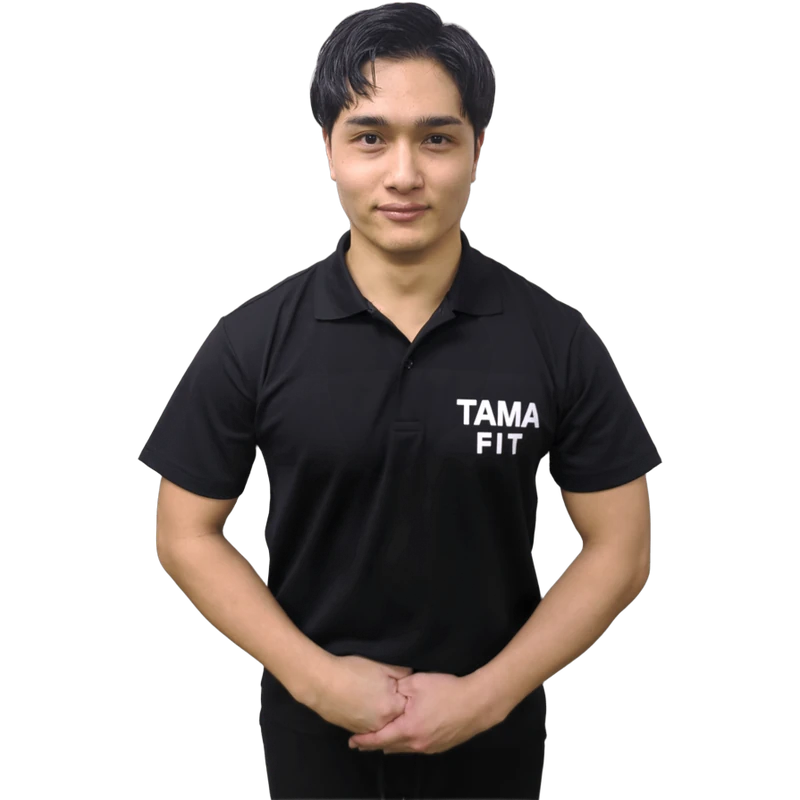
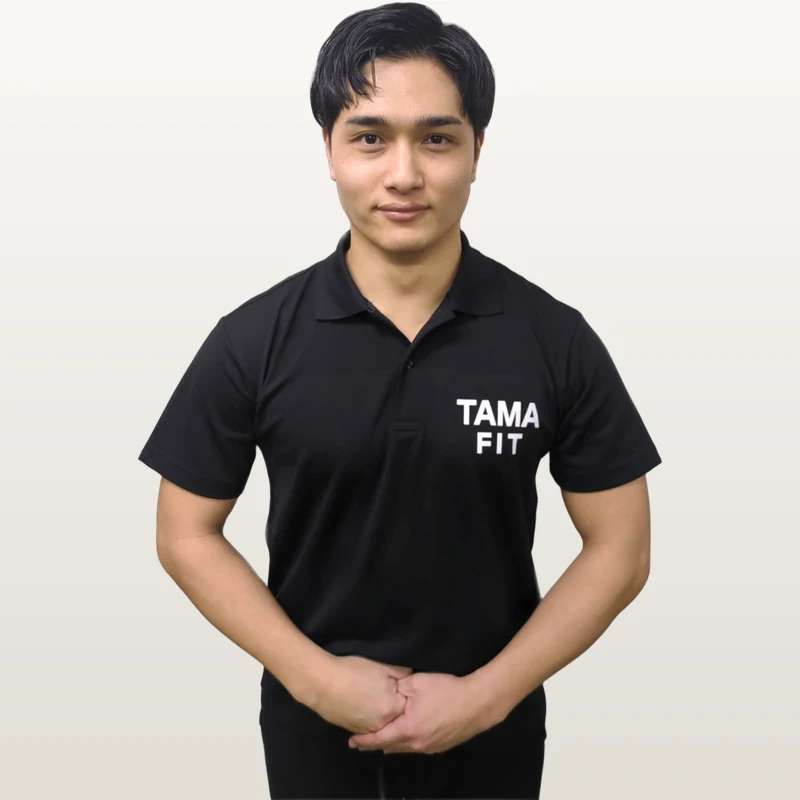
012

diff --git a/process_tamai_photo.py b/process_tamai_photo.py
@@ -1,0 +1,75 @@
+import os
+from PIL import Image, ImageEnhance, ImageDraw
+from rembg import remove, new_session
+
+def create_gradient_bg(size, color_top, color_bottom):
+    base = Image.new('RGB', size, color_top)
+    top = color_top
+    bottom = color_bottom
+    r_diff = bottom[0] - top[0]
+    g_diff = bottom[1] - top[1]
+    b_diff = bottom[2] - top[2]
+    
+    draw = ImageDraw.Draw(base)
+    for y in range(size[1]):
+        r = int(top[0] + (r_diff * y) / size[1])
+        g = int(top[1] + (g_diff * y) / size[1])
+        b = int(top[2] + (b_diff * y) / size[1])
+        draw.line([(0, y), (size[0], y)], fill=(r, g, b))
+    return base
+
+def enhance_image(img):
+    img = ImageEnhance.Brightness(img).enhance(1.15)
+    img = ImageEnhance.Contrast(img).enhance(1.10)
+    img = ImageEnhance.Color(img).enhance(1.10)
+    return img
+
+def main():
+    brain_dir = r'C:\Users\pc1\.gemini\antigravity\brain\3ccd4aba-f3c4-4aad-94c0-f13c8cda931d'
+    # The file we found:
+    input_path = os.path.join(brain_dir, 'media__1774583661533.jpg')
+    output_path = 'trainer-tamai.webp'
+    
+    obayashi_path = 'trainer-obayashi.webp'
+    obayashi = Image.open(obayashi_path)
+    target_w, target_h = obayashi.size
+    print(f"Target size (from Obayashi): {target_w}x{target_h}")
+    
+    img = Image.open(input_path).convert("RGBA")
+    
+    # 1. Enhance
+    img = enhance_image(img)
+    
+    # 2. Crop/Resize to match aspect ratio of target
+    img_ratio = img.width / img.height
+    target_ratio = target_w / target_h
+    
+    if img_ratio > target_ratio:
+        # Image is wider, crop the sides
+        new_w = int(img.height * target_ratio)
+        offset = (img.width - new_w) // 2
+        img = img.crop((offset, 0, offset + new_w, img.height))
+    else:
+        # Image is taller, crop top/bottom
+        # For a portrait we usually want to keep the top (head) if possible, but let's do center
+        new_h = int(img.width / target_ratio)
+        offset = (img.height - new_h) // 2
+        img = img.crop((0, offset, img.width, offset + new_h))
+        
+    img = img.resize((target_w, target_h), Image.Resampling.LANCZOS)
+    
+    # 3. Remove Background using u2net_human_seg
+    print("Removing background...")
+    session = new_session("u2net_human_seg")
+    transparent_image = remove(img, session=session)
+    
+    # 4. Composite over background gradient
+    print("Compositing...")
+    bg = create_gradient_bg((target_w, target_h), (250, 248, 244), (225, 222, 215))
+    bg.paste(transparent_image, (0, 0), transparent_image)
+    
+    bg.save(output_path, "WEBP", quality=90)
+    print("Done!")
+
+if __name__ == '__main__':
+    main()

diff --git a/bg_replace_human.py b/bg_replace_human.py
@@ -1,0 +1,47 @@
+import sys
+from rembg import remove, new_session
+from PIL import Image, ImageDraw
+
+def create_gradient_bg(size, color_top, color_bottom):
+    base = Image.new('RGB', size, color_top)
+    top = color_top
+    bottom = color_bottom
+    r_diff = bottom[0] - top[0]
+    g_diff = bottom[1] - top[1]
+    b_diff = bottom[2] - top[2]
+    
+    draw = ImageDraw.Draw(base)
+    for y in range(size[1]):
+        r = int(top[0] + (r_diff * y) / size[1])
+        g = int(top[1] + (g_diff * y) / size[1])
+        b = int(top[2] + (b_diff * y) / size[1])
+        draw.line([(0, y), (size[0], y)], fill=(r, g, b))
+    return base
+
+def process_image(input_path, output_path):
+    try:
+        print(f"Processing {input_path} with u2net_human_seg...")
+        input_image = Image.open(input_path).convert("RGBA")
+        
+        # Use the specific human segmentation model which is much better at keeping white clothes
+        session = new_session("u2net_human_seg")
+        
+        # Remove background using rembg
+        transparent_image = remove(input_image, session=session)
+        
+        # Soft natural studio backdrop: warm light-gray/beige gradient
+        bg = create_gradient_bg(transparent_image.size, (250, 248, 244), (225, 222, 215))
+        
+        # Paste the transparent image over the background
+        bg.paste(transparent_image, (0, 0), transparent_image)
+        
+        # Save the result
+        bg.save(output_path, "WEBP", quality=90)
+        
+        print(f"Successfully saved to {output_path}")
+    except Exception as e:
+        print(f"Error processing {input_path}: {e}")
+
+if __name__ == "__main__":
+    process_image("trainer-obayashi-orig.webp", "trainer-obayashi.webp")
+    process_image("trainer-tamai-orig.webp", "trainer-tamai.webp")

diff --git a/bg_replace.py b/bg_replace.py
@@ -1,0 +1,45 @@
+import sys
+from rembg import remove
+from PIL import Image, ImageDraw
+
+def create_gradient_bg(size, color_top, color_bottom):
+    base = Image.new('RGB', size, color_top)
+    top = color_top
+    bottom = color_bottom
+    r_diff = bottom[0] - top[0]
+    g_diff = bottom[1] - top[1]
+    b_diff = bottom[2] - top[2]
+    
+    draw = ImageDraw.Draw(base)
+    for y in range(size[1]):
+        r = int(top[0] + (r_diff * y) / size[1])
+        g = int(top[1] + (g_diff * y) / size[1])
+        b = int(top[2] + (b_diff * y) / size[1])
+        draw.line([(0, y), (size[0], y)], fill=(r, g, b))
+    return base
+
+def process_image(input_path, output_path):
+    try:
+        print(f"Processing {input_path}...")
+        input_image = Image.open(input_path).convert("RGBA")
+        
+        # Remove background using rembg
+        transparent_image = remove(input_image)
+        
+        # Soft natural studio backdrop: warm light-gray/beige gradient
+        # Top: very light beige, Bottom: warm medium gray
+        bg = create_gradient_bg(transparent_image.size, (250, 248, 244), (225, 222, 215))
+        
+        # Paste the transparent image over the background
+        bg.paste(transparent_image, (0, 0), transparent_image)
+        
+        # Save the result
+        bg.save(output_path, "WEBP", quality=90)
+        
+        print(f"Successfully saved to {output_path}")
+    except Exception as e:
+        print(f"Error processing {input_path}: {e}")
+
+if __name__ == "__main__":
+    process_image("trainer-obayashi-orig.webp", "trainer-obayashi.webp")
+    process_image("trainer-tamai-orig.webp", "trainer-tamai.webp")
